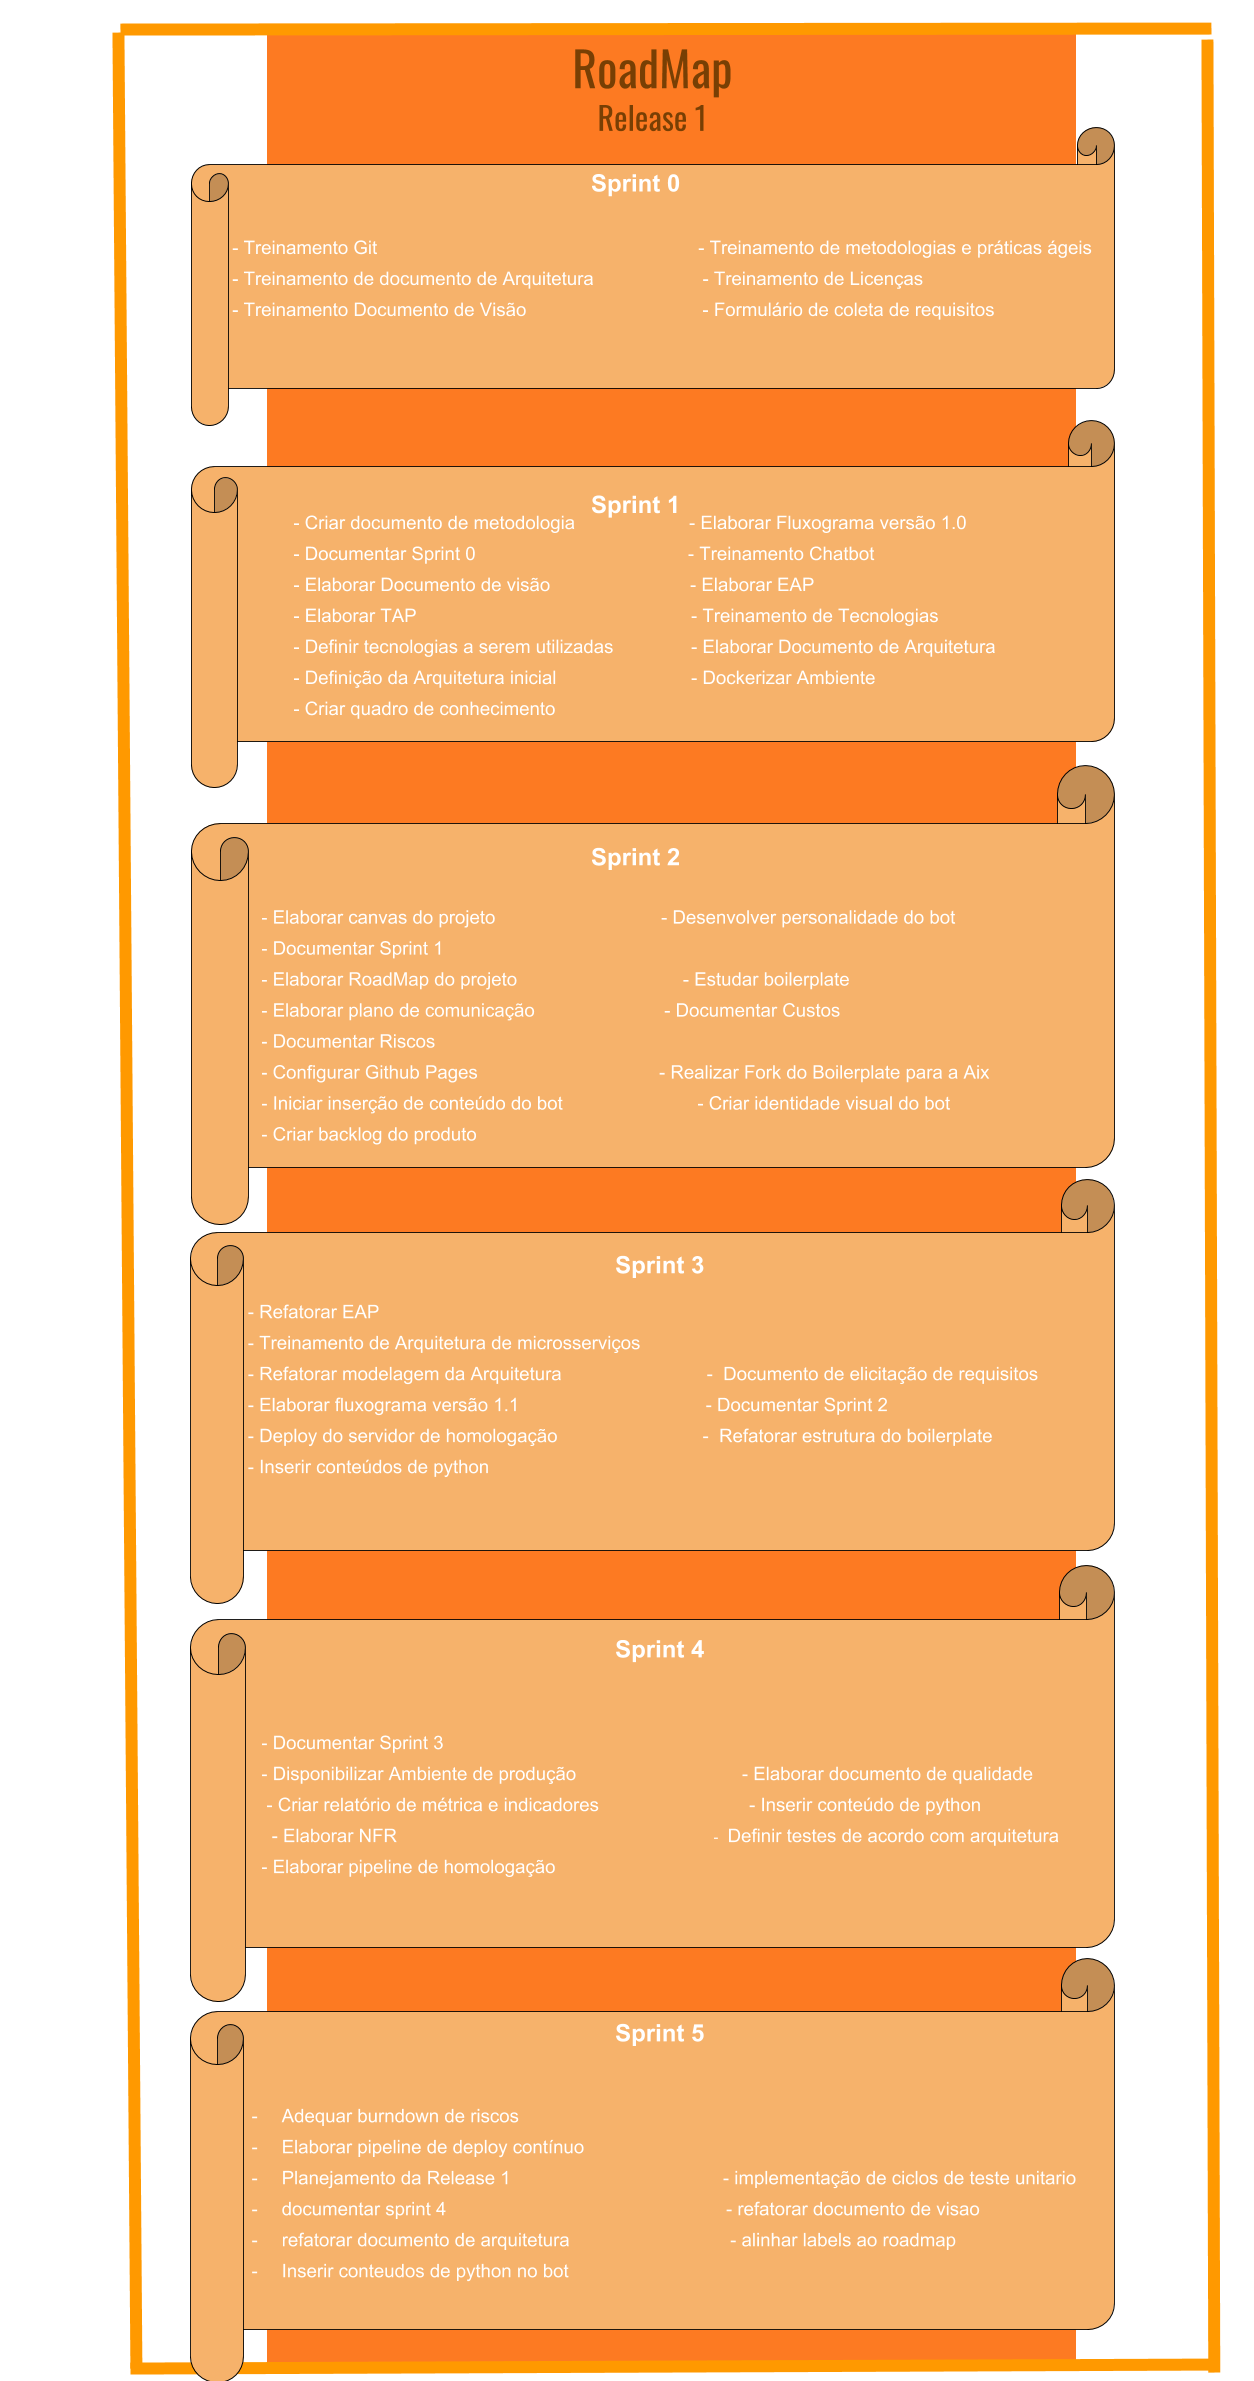
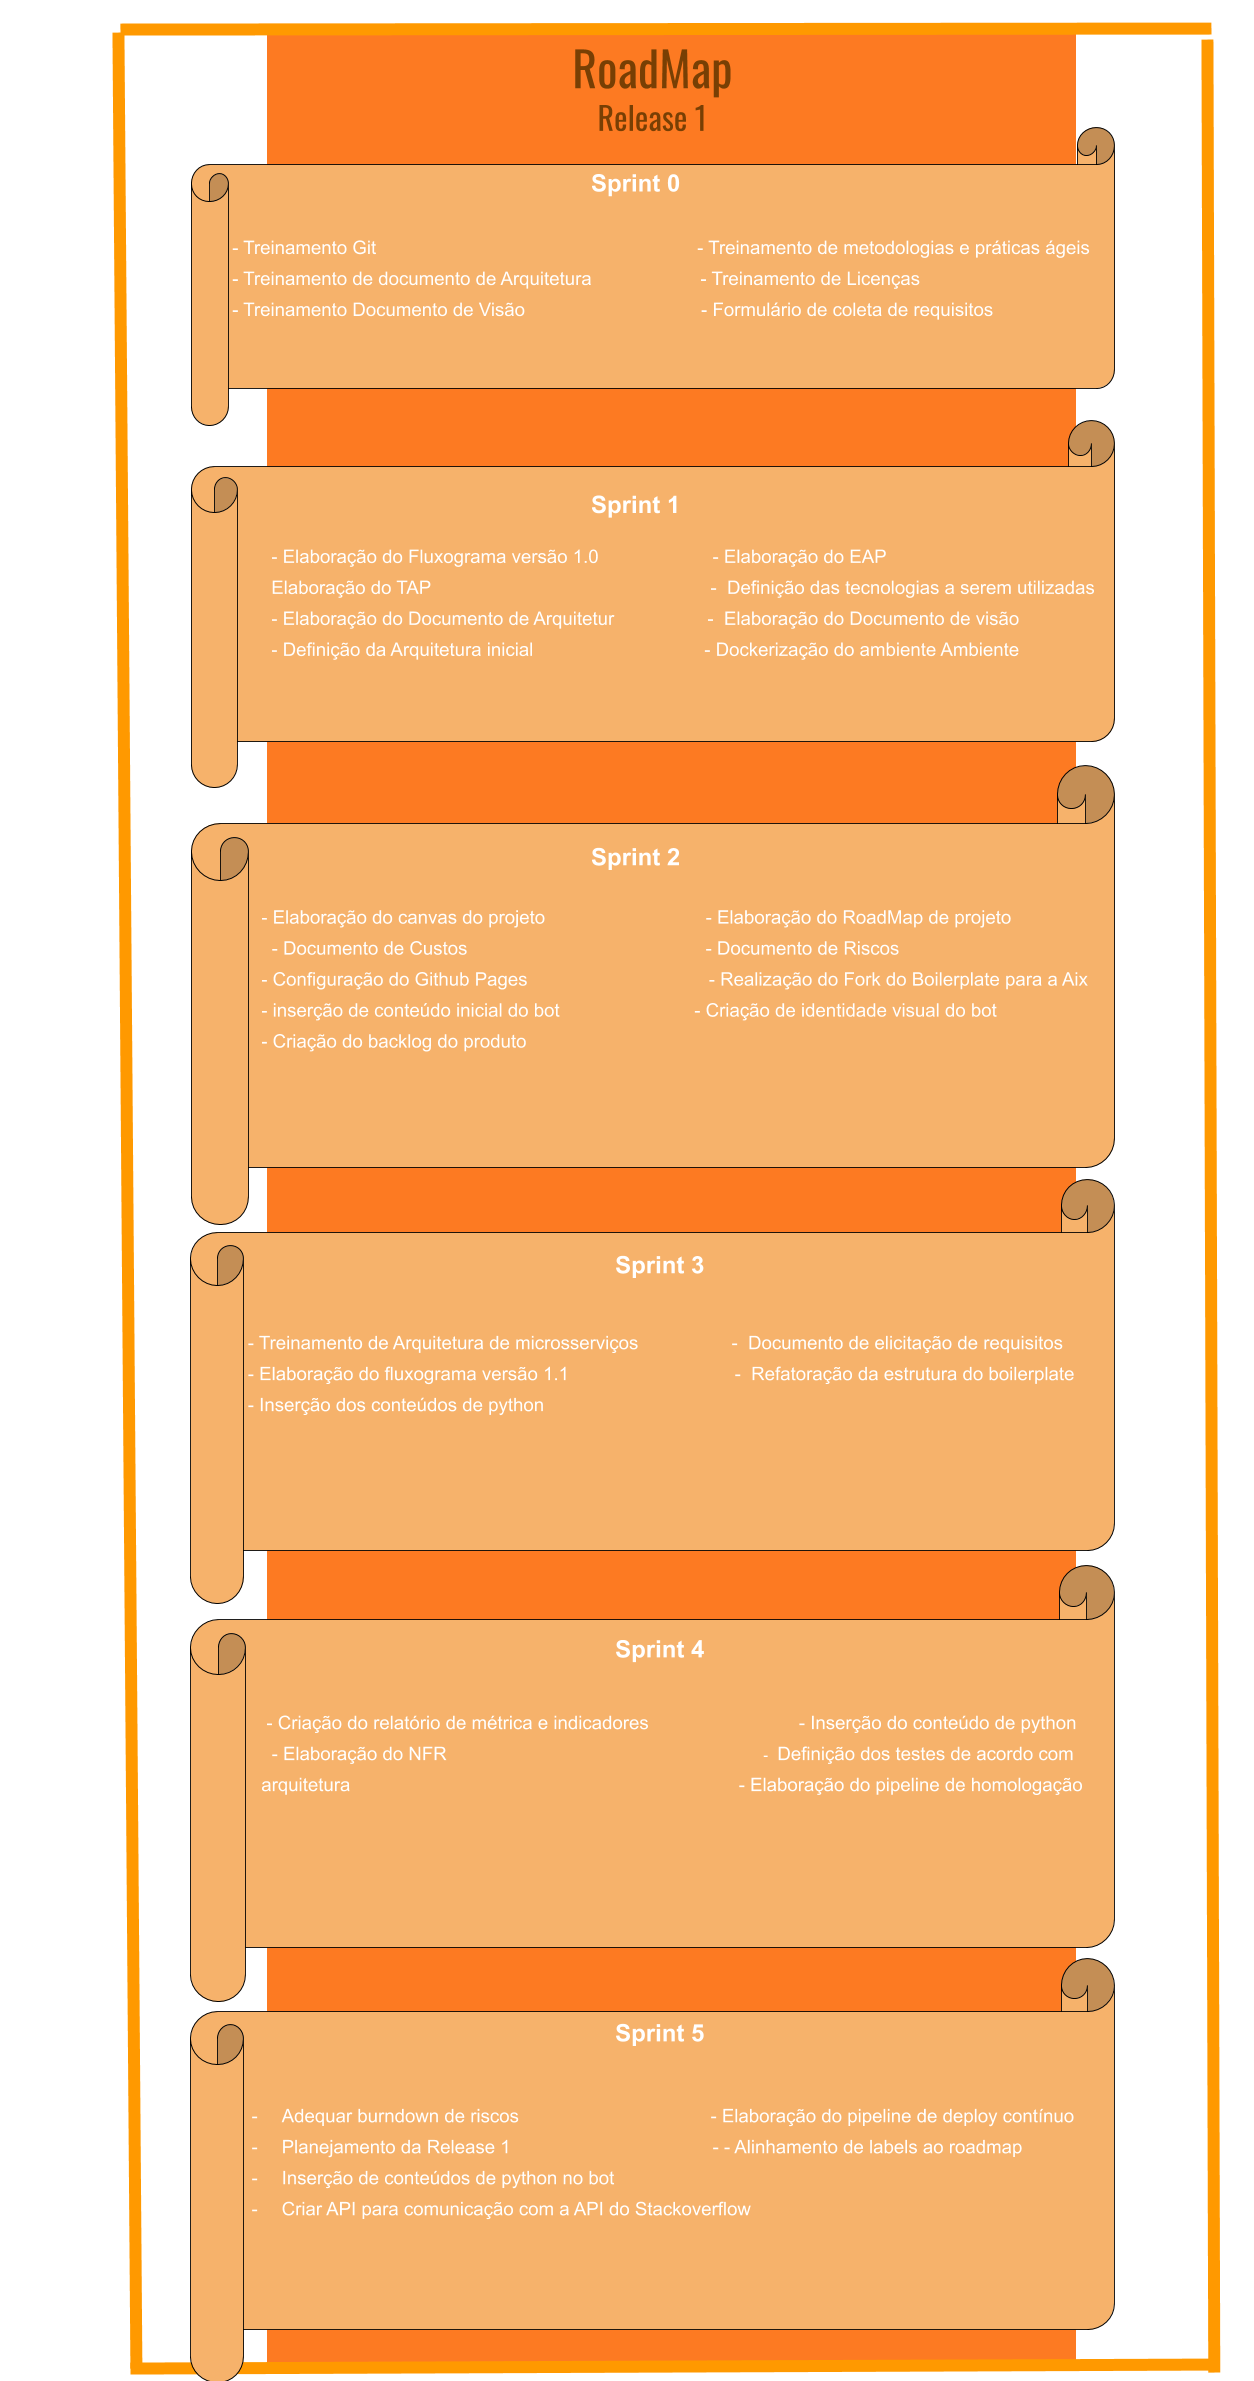
#95 - Atualizando RoadMap e históricos de versões

diff --git a/docs/_posts/2019-03-31-folha-de-estilo.md b/docs/_posts/2019-03-31-folha-de-estilo.md
@@ -4,6 +4,9 @@ title: Folha de Estilo
 tags: folha estilo eps documento
 category: Contribuicao
 ---
+| Data       | Versão | Descrição                                   | Autor            |
+| :--------: | :----: | :-----------------------------------------: | :--------------: |
+| 01/04/2019 | 0.0.1  | Criação da Folha de Estilo             | Lucas Vitor    |  |
 
 Este documento define as convenção seguidas para a programação na linguagem python que serão utilizadas no presente projeto. Ele tem como base o [PEP8 -- Style Guide for Python Code](https://www.python.org/dev/peps/pep-0008/), porém apresenta algumas leves alterações para refletir melhor as necessidades da equipe.
 Obervação: este documento pode sofrer alterações, caso seja evidenciado que alguma das convenções aqui descritas não se adequam da melhor forma ao contexto do projeto.

diff --git a/docs/_posts/2019-03-27-fluxograma.md b/docs/_posts/2019-03-27-fluxograma.md
@@ -4,6 +4,10 @@ title: Fluxograma
 tags: fluxograma aix eps
 category: Produto
 ---
+| Data       | Versão | Descrição                                   | Autor            |
+| :--------: | :----: | :-----------------------------------------: | :--------------: |
+| 28/03/2019 | 0.0.1  | Criação do Roadmap                  | Kamilla Costa    |
+| 12/04/2019 | 0.0.2  | Refatoração do Roadmap                  | Kamilla Costa    |
 
 <p align="justify">&emsp;&emsp; Este documento tem o objetivo de apresentar a construção dos fluxogramas do bot Aix. Abaixo, encontra-se os fluxogramas e suas devidas versões com a finalidade de apresentar a evolução e maturidade do grupo quanto a construção e inserção de conteúdo assim como novas funcionalidades ao bot, baseado na aplicação da técnica mágico de Oz.</p>
 <!--more-->

diff --git a/docs/_posts/2019-03-28-EAP.md b/docs/_posts/2019-03-28-EAP.md
@@ -4,6 +4,10 @@ title: Estrutura Analitica do Projeto
 tags: projeto eps documento
 category: Produto
 ---
+| Data       | Versão | Descrição                                   | Autor            |
+| :--------: | :----: | :-----------------------------------------: | :--------------: |
+| 25/03/2019 | 0.0.1  | Criação do EAP                 | Kamilla Costa e Lucas Vitor   |
+| 22/04/2019 | 0.0.2  | Refatoração do EAP             | Kamilla Costa    |
 
 <p align="justify">&emsp;&emsp; Este documento tem o objetivo de apresentar a construção da estrutura analítica do projeto (EAP) do bot Aix, que representa o processo de divisão do projeto em partes menores e mais facilmente gerenciáveis. Abaixo, encontram-se as versões de EAP desenvolvidas pelo grupo de gerenciamento da equipe.</p>
 <!--more-->

diff --git a/docs/_posts/2019-03-26-metodologia.md b/docs/_posts/2019-03-26-metodologia.md
@@ -4,6 +4,10 @@ title: Metodologia
 tags: metodologia documento eps
 category: Contribuicao
 ---
+---
+| Data       | Versão | Descrição                                   | Autor            |
+| :--------: | :----: | :-----------------------------------------: | :--------------: |
+| 20/03/2019 | 0.0.1  | Criação do documento de metodologia            | Kamilla Costa    |
 
 <p align="justify">&emsp;&emsp; Este documento tem o objetivo de esclarecer as metodologias ágeis adotadas para o projeto **Aix**. Abaixo, encontra-se descrito as metodologias bases (Scrum e Kanban), papeis e artefatos selecionados, suprindo assim, as necessidades de organização e atividades da equipe.</p>
 <!--more-->

diff --git a/docs/_posts/2019-03-27-tap.md b/docs/_posts/2019-03-27-tap.md
@@ -4,6 +4,10 @@ title: Termo de Abertura do Projeto
 tags: termo documento projeto eps
 category: Produto
 ---
+| Data       | Versão | Descrição                                   | Autor            |
+| :--------: | :----: | :-----------------------------------------: | :--------------: |
+| 25/03/2019 | 0.0.1  | Criação do TAP                 | Kamilla Costa    |
+| 22/04/2019 | 0.0.2  | Refatoração do TAP                | Kamilla Costa    |
 
 ## 1. Introdução
 O presente documento tem como objetivo informar os propósitos, objetivos e requisitos de alto nível, assim como uma visão inicial do projeto do Bot Aix.

diff --git a/docs/_posts/2019-04-05-backlog-de-produto.md b/docs/_posts/2019-04-05-backlog-de-produto.md
@@ -4,6 +4,10 @@ title: Backlog do Produto
 tags: plano backlog documento eps
 category: Produto
 ---
+| Data       | Versão | Descrição                                   | Autor            |
+| :--------: | :----: | :-----------------------------------------: | :--------------: |
+| 17/04/2019 | 0.0.1  | Criação do backlog                  | Kamilla Costa   e Lucas Vitor |
+| 22/04/2019 | 0.0.2  | Refatoração do backlog              | Kamilla Costa    |
 
 Foram criado algumas personas para inserção das histórias de usuário como:
 - Desenvolvedor: Responsável pelo desenvolvimento de funcionalidades do bot

diff --git a/docs/_posts/2019-04-06-roadmap-projeto.md b/docs/_posts/2019-04-06-roadmap-projeto.md
@@ -6,7 +6,8 @@ category: Projeto
 ---
 | Data       | Versão | Descrição                                   | Autor            |
 | :--------: | :----: | :-----------------------------------------: | :--------------: |
-| 06/04/2019 | 0.0.1  | Primeira Versão do Roadmap                  | Kamilla Costa    |
+| 06/04/2019 | 0.0.1  | Criação do Roadmap                  | Kamilla Costa    |
+| 22/04/2019 | 0.0.2  | Refatoração do Roadmap                  | Kamilla Costa    |
 
 
 ![RoadMap Release 1]({{ site.url }}/2019.1-Aix/assets/img/RoadMap_release1.png)

diff --git a/docs/_posts/2019-04-01-identidade-visual.md b/docs/_posts/2019-04-01-identidade-visual.md
@@ -4,6 +4,10 @@ title: Identidade Visual
 tags: identidade visual mds 
 category: Produto
 ---
+| Data       | Versão | Descrição                                   | Autor            |
+| :--------: | :----: | :-----------------------------------------: | :--------------: |
+| 06/04/2019 | 0.0.1  | Criação do documento de identidade visual             | Gabriela    |
+| 20/04/2019 | 0.0.2  | do documento de identidade visual                | Gabriela   |
 
 ## 1.1 Logo
 <p align="justify"> &emsp;&emsp;

diff --git a/docs/_posts/2019-04-03-estudo-de-tecnologia.md b/docs/_posts/2019-04-03-estudo-de-tecnologia.md
@@ -4,6 +4,11 @@ title: Estudo de Tecnologia Boilerplate
 tags: estudo tecnologia boilerplate eps mds
 category: Projeto
 ---
+| Data       | Versão | Descrição                                   | Autor            |
+| :--------: | :----: | :-----------------------------------------: | :--------------: |
+| 06/04/2019 | 0.0.1  | Criação do documento             | Gabriela, André, Pedro, Iuri, Gustavo    |
+
+
 
 ## Definições
 * **Intent**: Inteção do usuário, "significado" da frase;

diff --git a/docs/_posts/2019-03-29-gcs.md b/docs/_posts/2019-03-29-gcs.md
@@ -4,6 +4,10 @@ title: Plano de Gerenciamento de Configuração de Software
 tags: plano configuração documento eps
 category: Gerencia
 ---
+|Data|Versão|Descrição|Autor|
+|:--:|:--:|:--:|:--:|
+|28/03/2019| 1.0|Criação do documento |Guilherme Marques e Lucas Vitor|
+|09/04/2019|1.1|REfatoração do documento|Guilherme Marques e Lucas Vitor|
 
 ## 1. Introdução
 

diff --git a/docs/_posts/2019-04-05-plano-de-gerenciamento-de-custos.md b/docs/_posts/2019-04-05-plano-de-gerenciamento-de-custos.md
@@ -4,6 +4,10 @@ title: Plano de Gerenciamento de Custos
 tags: plano custos documento eps
 category: Gerencia
 ---
+|Data   |Versão   |Descrição   |Autor   |
+|---|---|---|---|
+|05/04/2019   | 1.0  |Criação do documento   |Lucas Vitor   |
+|09/04/2019   | 1.1  |Refatoração do documento | Lucas Vitor |
 
 
 ## 1. Introdução

diff --git a/docs/_posts/2019-04-06-detalhamento-de-riscos.md b/docs/_posts/2019-04-06-detalhamento-de-riscos.md
@@ -4,6 +4,10 @@ title: Detalhamaneto de riscos
 tags: datelhamento riscos documento eps
 category: Gerencia
 ---
+|Data   |Versão   |Descrição   |Autor   |
+|---|---|---|---|
+|05/04/2019   | 1.0  |Criação do documento   |Lucas Vitor   |
+|09/04/2019   | 1.1  |Refatoração do documento | LUcas Vitor |
 
 
 ## 1. Introdução
